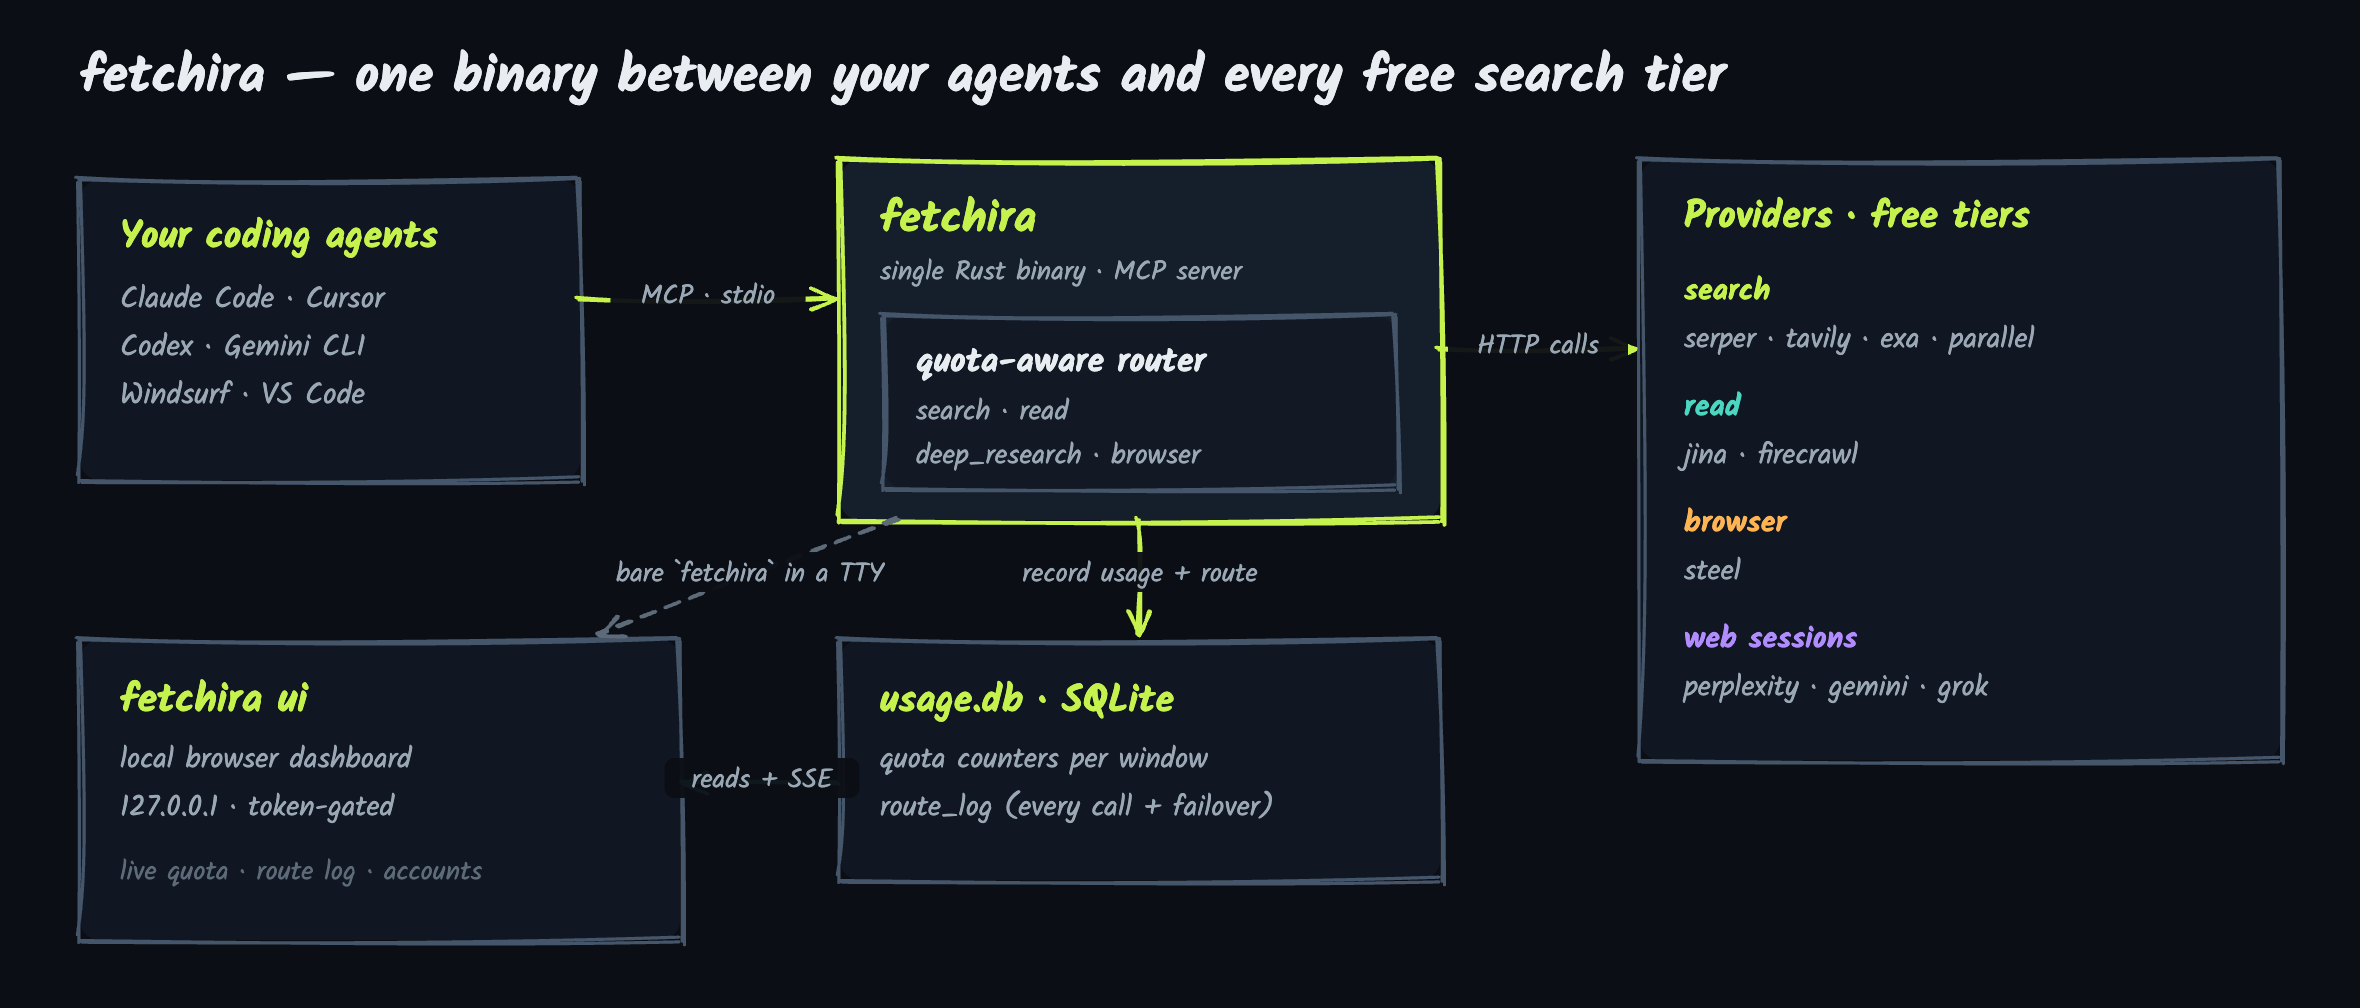
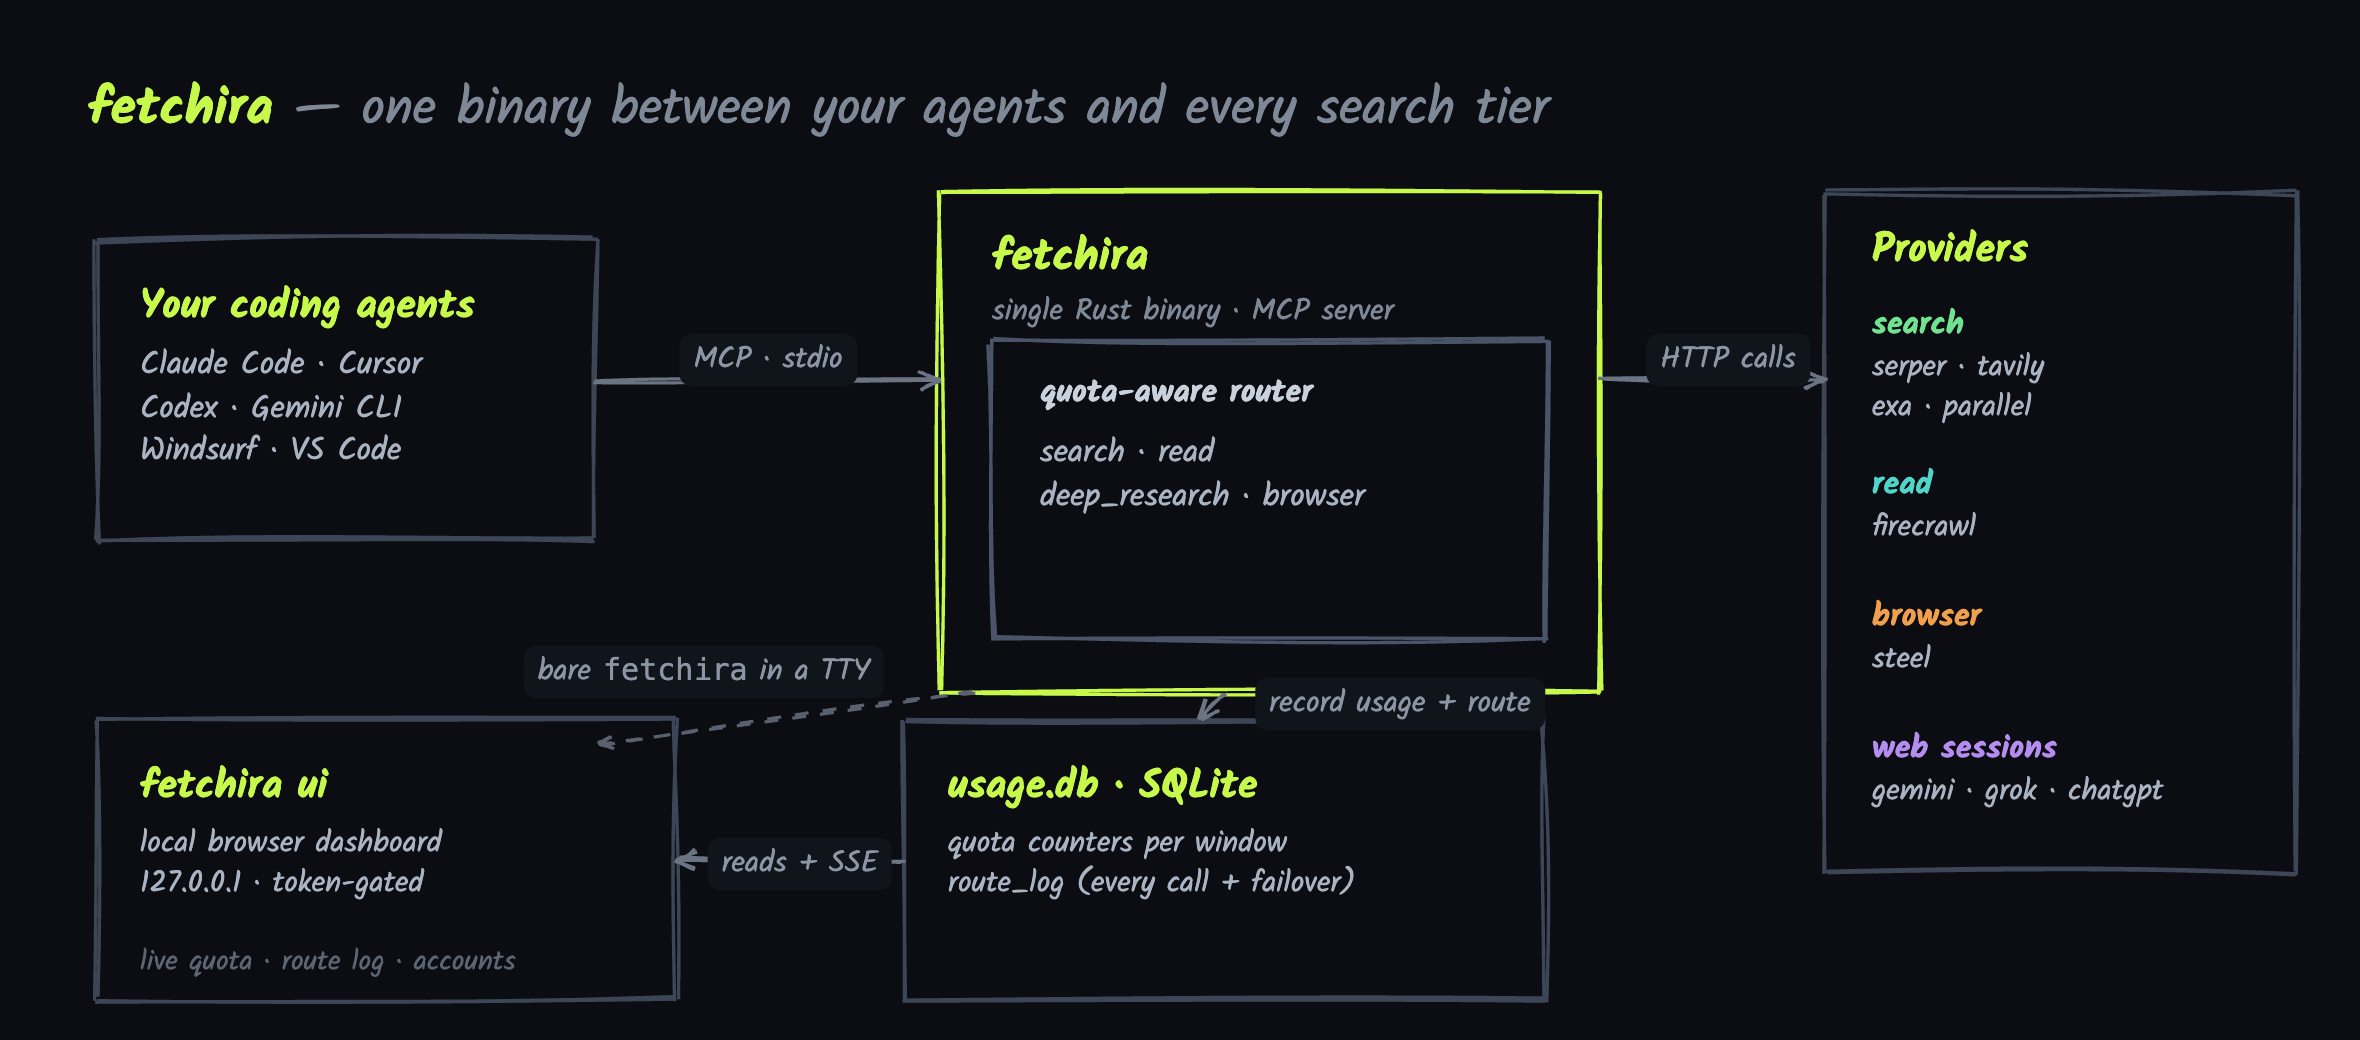
docs: redraw architecture diagram for current providers, drop "free" from the tagline

diff --git a/docs/architecture.html b/docs/architecture.html
@@ -1,0 +1,100 @@
+<!DOCTYPE html>
+<html lang="en">
+<head>
+<meta charset="utf-8">
+<link rel="preconnect" href="https://fonts.googleapis.com">
+<link rel="preconnect" href="https://fonts.gstatic.com" crossorigin>
+<link href="https://fonts.googleapis.com/css2?family=Kalam:wght@400;700&display=swap" rel="stylesheet">
+<script src="https://unpkg.com/roughjs@4.6.6/bundled/rough.js"></script>
+<style>
+  * { margin: 0; padding: 0; box-sizing: border-box; }
+  body { background: #0b0d12; }
+  #stage { position: relative; width: 1180px; height: 520px; background: #0b0d12;
+           font-family: 'Kalam', cursive; overflow: hidden; }
+  #rc { position: absolute; inset: 0; }
+  .t { position: absolute; }                 /* text layer */
+  .title { font-weight: 700; color: #c6f94a; }
+  .sub { color: #7e8896; }
+  .body { color: #aab3c2; line-height: 1.35; }
+  .faint { color: #5c6572; }
+  .lbl { position: absolute; color: #8b95a4; background: #10141b; padding: 1px 7px;
+         border-radius: 6px; font-size: 15px; white-space: nowrap; transform: translate(-50%,-50%); }
+  .sec { font-weight: 700; }
+</style>
+</head>
+<body>
+<div id="stage">
+  <svg id="rc" width="1180" height="520"></svg>
+
+  <div class="t title" style="left:44px; top:34px; font-size:26px;">fetchira <span style="color:#7e8896; font-weight:400;">— one binary between your agents and every search tier</span></div>
+
+  <!-- agents -->
+  <div class="t title" style="left:70px; top:138px; font-size:20px;">Your coding agents</div>
+  <div class="t body"  style="left:70px; top:172px; font-size:16px;">Claude Code · Cursor<br>Codex · Gemini CLI<br>Windsurf · VS Code</div>
+
+  <!-- fetchira -->
+  <div class="t title" style="left:496px; top:112px; font-size:22px;">fetchira</div>
+  <div class="t sub"   style="left:496px; top:144px; font-size:15px;">single Rust binary · MCP server</div>
+  <div class="t body"  style="left:520px; top:186px; font-size:16px; color:#c9d1dc; font-weight:700;">quota-aware router</div>
+  <div class="t body"  style="left:520px; top:216px; font-size:16px;">search · read<br>deep_research · browser</div>
+
+  <!-- providers -->
+  <div class="t title" style="left:936px; top:110px; font-size:20px;">Providers</div>
+  <div class="t sec"   style="left:936px; top:150px; font-size:16px; color:#6fe38f;">search</div>
+  <div class="t body"  style="left:936px; top:174px; font-size:15px;">serper · tavily<br>exa · parallel</div>
+  <div class="t sec"   style="left:936px; top:230px; font-size:16px; color:#4fd6c9;">read</div>
+  <div class="t body"  style="left:936px; top:254px; font-size:15px;">firecrawl</div>
+  <div class="t sec"   style="left:936px; top:296px; font-size:16px; color:#f0a04b;">browser</div>
+  <div class="t body"  style="left:936px; top:320px; font-size:15px;">steel</div>
+  <div class="t sec"   style="left:936px; top:362px; font-size:16px; color:#b58cf0;">web sessions</div>
+  <div class="t body"  style="left:936px; top:386px; font-size:15px;">gemini · grok · chatgpt</div>
+
+  <!-- ui -->
+  <div class="t title" style="left:70px; top:378px; font-size:20px;">fetchira ui</div>
+  <div class="t body"  style="left:70px; top:412px; font-size:15px;">local browser dashboard<br>127.0.0.1 · token-gated</div>
+  <div class="t faint" style="left:70px; top:470px; font-size:14px;">live quota · route log · accounts</div>
+
+  <!-- usage.db -->
+  <div class="t title" style="left:474px; top:378px; font-size:20px;">usage.db · SQLite</div>
+  <div class="t body"  style="left:474px; top:412px; font-size:15px;">quota counters per window<br>route_log (every call + failover)</div>
+
+  <!-- edge labels -->
+  <div class="lbl" style="left:384px; top:180px;">MCP · stdio</div>
+  <div class="lbl" style="left:864px; top:180px;">HTTP calls</div>
+  <div class="lbl" style="left:700px; top:352px;">record usage + route</div>
+  <div class="lbl" style="left:400px; top:432px;">reads + SSE</div>
+  <div class="lbl" style="left:352px; top:336px;">bare <code>fetchira</code> in a TTY</div>
+</div>
+
+<script>
+window.__ready = false;
+document.fonts.ready.then(() => {
+  const rc = rough.svg(document.getElementById('rc'));
+  const svg = document.getElementById('rc');
+  const gray = '#3d4657', lime = '#c6f94a';
+  const box = (x,y,w,h,stroke) => svg.appendChild(rc.rectangle(x,y,w,h,{stroke, strokeWidth:1.7, roughness:1.15, bowing:1.2}));
+  const arrow = (x1,y1,x2,y2,opt={}) => {
+    const o = Object.assign({stroke:'#6b7482', strokeWidth:1.6, roughness:1.1}, opt);
+    svg.appendChild(rc.line(x1,y1,x2,y2,o));
+    const a = Math.atan2(y2-y1, x2-x1), h = 11;
+    svg.appendChild(rc.line(x2,y2, x2-h*Math.cos(a-0.42), y2-h*Math.sin(a-0.42), o));
+    svg.appendChild(rc.line(x2,y2, x2-h*Math.cos(a+0.42), y2-h*Math.sin(a+0.42), o));
+  };
+  // boxes
+  box(48,120,250,150,gray);
+  box(470,96,330,250,lime);            // fetchira highlighted
+  box(496,170,278,150,'#4a5468');      // inner router
+  box(912,96,236,340,gray);
+  box(48,360,290,140,gray);
+  box(452,360,320,140,gray);
+  // arrows
+  arrow(298,190,470,190);                                  // agents -> fetchira
+  arrow(800,190,912,190);                                  // fetchira -> providers
+  arrow(612,346,600,360);                                  // fetchira -> usage.db
+  arrow(452,430,338,430);                                  // usage.db -> ui
+  arrow(486,346,300,372,{strokeLineDash:[7,7], stroke:'#59616f'}); // fetchira ~> ui (dashed)
+  window.__ready = true;
+});
+</script>
+</body>
+</html>

diff --git a/README.md b/README.md
@@ -1,6 +1,6 @@
 # fetchira
 
-One small binary that sits between your coding agent and every free web-search and
+One small binary that sits between your coding agent and every web-search and
 scrape tier, and spends them so you don't have to think about it.
 
 ![fetchira architecture](docs/architecture.png)